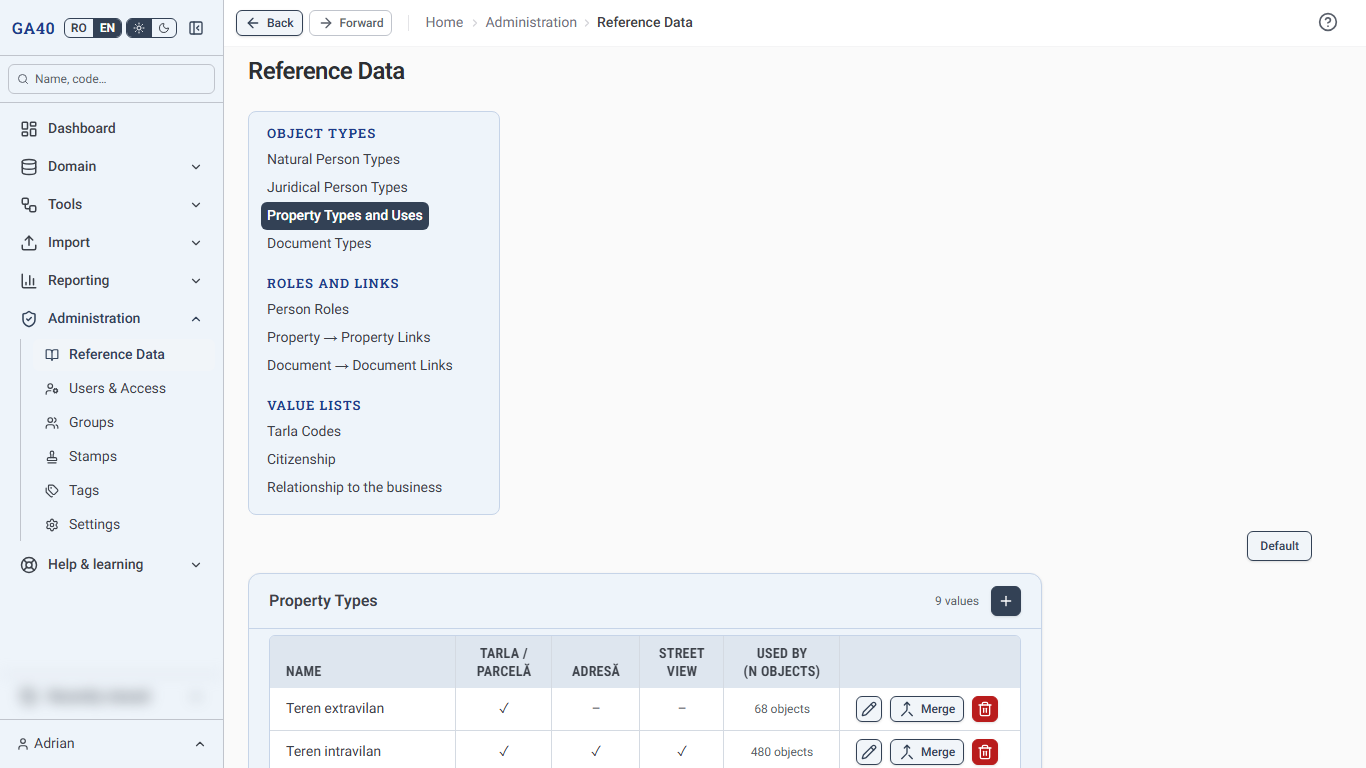
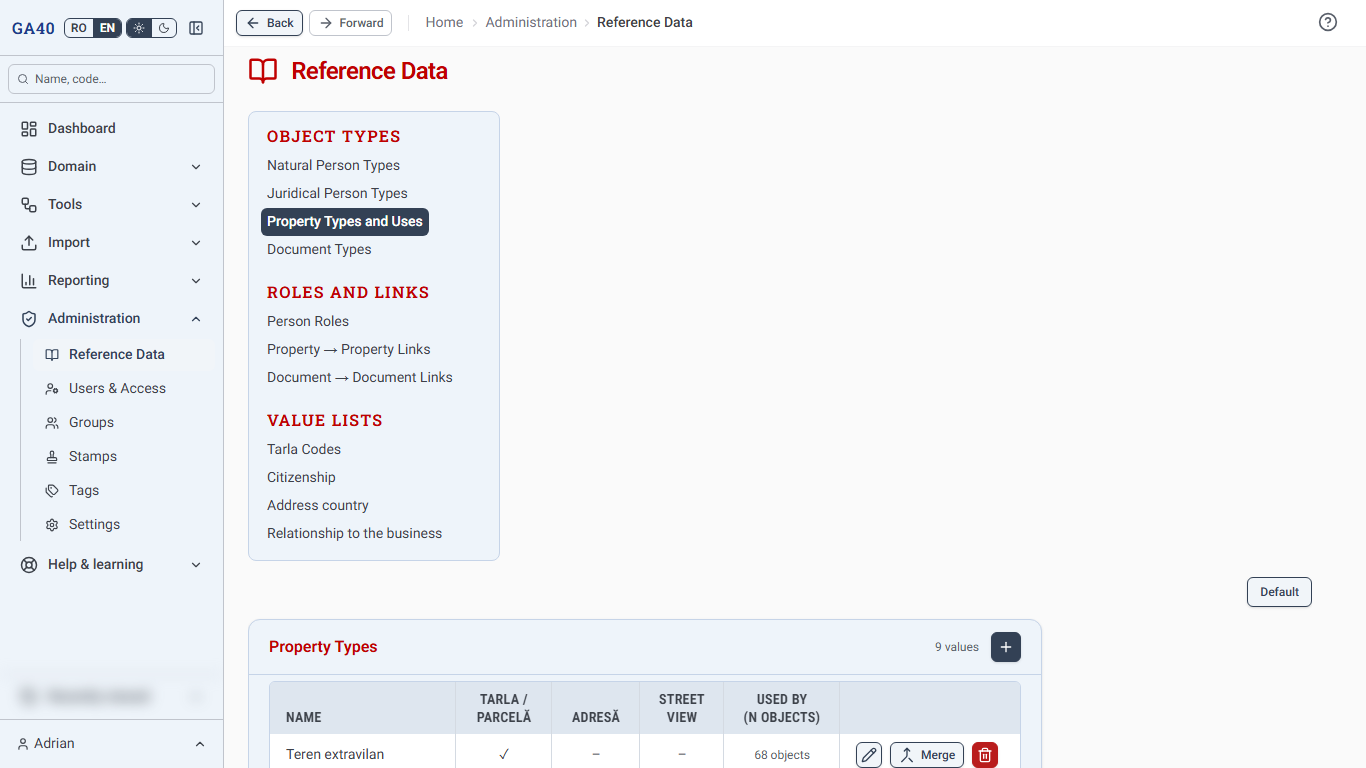
docs(manual): chapters 7 and 12 after 41.13–41.85, with their figures re-shot (41.93)
Both languages:
- chapter 7: the „Notar" link made from „Notariat", which „Dezasociază" refuses
  (41.53); Clasificare's „i" and the title bubbles (41.28, 41.37); Clasificare
  reviewed as one block — one date line, one „Marchează ca verificat", a
  confirmation, „Istoric" for provenance only (41.28, 41.59); „Etichete și grupuri"
  calm at rest, opened with „Editează", pickers closing on an outside click or Esc
  (41.39, 41.40); a group's or stamp's screen opened from a record shows only its
  identity tile (41.43, 41.45); „Actul modificat" the one link that makes a
  version (41.54);
- chapter 12: „Țara adresei" and how it keeps step with „Cetățenie" (41.51);
  „Forme tipărite" (41.52); the identity types under „Cu formular" (41.50);
  Grupuri, Ștampile, Etichete choosing their tiles with „Panouri", the workflows
  tile, „Am înțeles" and „Ce vrei să faci?", a group's three tiles and its
  searchable lists (41.41–41.45, 41.58, 41.67, 41.84); „Unitatea de lățime" on
  „Setări" (41.16); fifteen thresholds in six groups, „Hărți" the sixth (41.75,
  41.76 — it said eleven in five).
Quizzes corrected in place: links-audit-the-history a5, b9 and
links-classify-and-tag a2 („Istoric" holds provenance only); classify a5, a6, b6,
groups a1, a4, b2, b3, b4, b6, read-version b6, restore a6 („Confirmă",
„Editează" first, „‹ Include", „Implicit" in „Panouri").
Figures re-shot from the dev seed, both languages, 0 maps: admin-settings,
[…]

diff --git a/src/lib/manual/content/ro-RO/12-admin.ts b/src/lib/manual/content/ro-RO/12-admin.ts
@@ -15,7 +15,7 @@ Ecranul este o singură pagină (Figura [[fig-admin-value-lists]]). În stânga 
 
 O pagină cu mai multe liste le arată ca fișe: stau una lângă alta cât încap, fiecare cât îi cer coloanele, și se pot trage în alt loc, ca pe ecranul unei proprietăți. „Implicit”, din dreapta sus, le pune la loc; locul lor se păstrează în browserul vostru.
 
-Fiecare listă stă la aceeași distanță de marginile fișei ei — stânga, dreapta și jos —, cea a „Categorii Folosință”. Unde fișa e mai lată decât îi cer coloanele, lista se lărgește până acolo, iar lățimea câștigată o primește descrierea sau, unde lista nu are descriere, denumirea; la „Cetățenie” și „Relația cu firma” fișa se îngustează în jurul listei. „Roluri Persoane” și cele două „Legături” își păstrează fișele.
+Fiecare listă stă la aceeași distanță de marginile fișei ei — stânga, dreapta și jos —, cea a „Categorii Folosință”. Unde fișa e mai lată decât îi cer coloanele, lista se lărgește până acolo, iar lățimea câștigată o primește descrierea sau, unde lista nu are descriere, denumirea; la „Cetățenie”, „Țara adresei” și „Relația cu firma” fișa se îngustează în jurul listei. „Roluri Persoane” și cele două „Legături” își păstrează fișele.
 
 ![12.1 „Date de referință”](admin-value-lists.png){#fig-admin-value-lists}
 
@@ -23,7 +23,7 @@ Fiecare listă stă la aceeași distanță de marginile fișei ei — stânga, d
 |---|---|
 | Tipuri de obiecte | „Tipuri de Persoană Fizică”, „Tipuri de Persoană Juridică”, „Tipuri de Proprietate și Folosințe”, „Tipuri de Document” |
 | Roluri și legături | „Roluri Persoane”, „Legături Proprietate → Proprietate”, „Legături Document → Document” |
-| Liste de valori | „Indicative Tarla”, „Cetățenie”, „Relația cu firma” |
+| Liste de valori | „Indicative Tarla”, „Cetățenie”, „Țara adresei”, „Relația cu firma” |
 
 „Categorii Folosință” nu are un buton al ei: este a doua fișă a paginii „Tipuri de Proprietate și Folosințe” (secțiunea [[admin-reference-data-property-types]]).
 
@@ -41,6 +41,10 @@ Coloana „Folosit de” spune câte obiecte folosesc valoarea: „1 obiect”, 
 - **O valoare ștearsă.** „Șterge” întreabă „Ștergeți „…”?” și verifică întâi ce depinde de valoare: „Se verifică ce depinde de această valoare…”. Dacă nu depinde nimic, scrie „Nimic nu depinde de această valoare. La ștergere dispare definitiv — acțiunea nu poate fi anulată.”; „Șterge” o șterge, „Anulează” renunță. Dacă o folosesc obiecte, fereastra spune câte, iar ștergerea nu este posibilă până nu le mutați pe altă valoare: alegeți-o la „Mutați-le pe:” și apăsați „Mută”.
 
 Versiunile vechi ale obiectelor nu se schimbă: fiecare păstrează valoarea așa cum era când a fost salvată (secțiunea [[links-versions]]).
+
+„Cetățenie” și „Țara adresei” țin aceleași țări: prima, cetățenia unei persoane; a doua, lista „Țară” de pe fiecare adresă — a unei persoane, a unei firme, a unei proprietăți. O adresă păstrează numele țării, așa că o țară scoasă din listă rămâne pe adresele care o au. După o adăugare, o redenumire, o ștergere sau o unire în una dintre cele două, aplicația amintește de cealaltă, de exemplu „Ați salvat o schimbare în „Cetățenie”. Verificați dacă „Țara adresei” are nevoie de aceeași schimbare, ca listele să rămână în acord.”; mesajul rămâne până îl închideți.
+
+La „Cetățenie”, „Forme tipărite” ține, despărțite prin virgulă, felurile în care un act de identitate poate tipări cetățenia, de exemplu ROU sau ROUMAINE. Importul unei cărți de identitate le citește ca să găsească cetățenia persoanei (capitolul [[import]]).
 
 ### 12.1.2 Rolurile și legăturile {#admin-reference-data-roles}
 
@@ -69,7 +73,7 @@ Deasupra celor trei liste din „Roluri și legături” stă fișa „Cum se le
 
 „Tipuri de Document” are coloanele „Denumire”, „Denumire scurtă”, „Stare” și „Folosit de (n obiecte)”. „Stare” spune de unde vine tipul și dacă are formular: „Adăugat manual”, „Creat la import” sau „Are formular”; cele patru tipuri de act de identitate spun „Act de identitate”. Țineți mouse-ul pe denumirea unui tip și bula arată denumirea întreagă, iar sub ea cheia tipului, de exemplu „CONTRACT_VANZARE”.
 
-Deasupra tabelului stau două bife: „Cu formular” arată doar tipurile care au formular, „Fără formular” doar pe cele care nu au. Amândouă bifate, sau niciuna, arată toate tipurile. Când un import se oprește la un tip fără formular, legătura lui deschide lista cu „Fără formular” bifat (capitolul [[import]]).
+Deasupra tabelului stau două bife: „Cu formular” arată doar tipurile care au formular, „Fără formular” doar pe cele care nu au. Cele patru tipuri de act de identitate stau sub „Cu formular”: formularul lor este cel de sistem (mai jos). Amândouă bifate, sau niciuna, arată toate tipurile. Când un import se oprește la un tip fără formular, legătura lui deschide lista cu „Fără formular” bifat (capitolul [[import]]).
 
 „Deschide”, pe rândul unui tip, deschide pagina tipului, cu trei file:
 
@@ -116,33 +120,39 @@ Grupurile, ștampilele și etichetele se pun pe obiecte din fișa „Etichete ș
 
 ### 12.3.1 Grupurile {#admin-groups-groups}
 
-„Administrare” → „Grupuri” arată panoul „Ce este un Grup?”, „Adaugă”, caseta de căutare, numărul grupurilor, de exemplu „4 grupuri”, și tabelul „Cod” · „Descriere”. Fiecare rând are codul grupului, cu numărul membrilor în paranteză, felul obiectelor pe care le strânge, descrierea, „Editează” și „Șterge”. Lista se oprește la două treimi din înălțimea ferestrei și se derulează în fișa ei, cu rândul de titluri mereu sus.
+„Administrare” → „Grupuri” are trei fișe: „Ce este un Grup?”, „Cum lucrezi cu grupurile” și „Grupuri”, lista. Ca pe ecranul unui obiect, „Panouri”, în bara de sus, alege care se văd, iar „Implicit”, acolo, le aduce înapoi și le pune la locul lor (secțiunea [[start-tiles]]); alegerea rămâne a browserului. „Am înțeles”, la piciorul fișei „Ce este un Grup?”, o ascunde; o aduceți înapoi bifând-o în „Panouri”.
+
+„Cum lucrezi cu grupurile” întreabă „Ce vrei să faci?” și oferă șase variante, sub „Grupul însuși”, „Membrii grupului” și „Pe hartă” — de exemplu „Fac un grup nou” sau „Adaug sau scot membri” —, fiecare cu un rând care spune când se potrivește. Până nu alegeți una, fișa nu arată niciun pas; apoi arată doar pașii variantei alese și o ține minte, în browser.
+
+Fișa „Grupuri” are „Adaugă”, caseta de căutare, numărul grupurilor, de exemplu „4 grupuri”, și tabelul „Cod” · „Descriere”. Fiecare rând are codul grupului, cu numărul membrilor în paranteză, felul obiectelor pe care le strânge, descrierea, „Editează” și „Șterge”. Lista se oprește la două treimi din înălțimea ferestrei și se derulează în fișa ei, cu rândul de titluri mereu sus.
 
 Caseta de lângă „Adaugă”, „caută după Cod sau Descriere”, găsește un grup după cod sau după cuvintele descrierii — toate cuvintele scrise, în orice ordine, cu sau fără diacritice; un cod scris întreg vine primul. Cât timp scrieți, numărul spune câte grupuri se văd din câte sunt, de exemplu „1 din 4”; dacă nu se potrivește niciunul, tabelul spune „Niciun grup nu se potrivește căutării.”.
 
 1. „Adaugă” deschide „Adaugă grup nou”. Alegeți „Țintă” — „Proprietate”, „Persoană fizică”, „Persoană juridică” sau „Document” —, scrieți „Descriere” și apăsați „Salvează”. Rămâneți pe listă, cu grupul nou primul; codul, de forma GRP-001, se dă la salvare.
-2. „Editează” deschide „Grup GRP-…”, cu două fișe: „Identitatea grupului” (codul și ținta pe un rând, „Descriere”, „Salvează grupul”) și „Membrii grupului”, cu două liste: „Deja în grup” în stânga, „Membri disponibili pentru includere” în dreapta.
-3. Căutați în „Caută…”, bifați obiectele din dreapta și apăsați „‹ Include”; ca să scoateți unul, bifați-l în „Deja în grup” și apăsați „Scoate ›”. Un dublu clic pe un rând îl mută în cealaltă listă. Rândurile mutate poartă „în așteptare”, iar ecranul arată „Modificări nesalvate”: încă nu s-a scris nimic.
+2. „Editează” deschide „Grup GRP-…”, cu trei fișe: „Identitatea grupului” — codul și ținta pe un rând, „Descriere”, care crește odată cu textul, și „Salvează grupul” la piciorul ei —, „Membrii grupului”, cu două liste de aceeași înălțime, „Deja în grup” în stânga și „Membri disponibili pentru includere” în dreapta, și „Cum lucrezi cu grupurile”.
+3. Deasupra fiecărei liste stă o casetă „Caută…”, care o strânge la numele potrivite; numărul de lângă titlul listei spune câte rânduri se văd. Bifați obiectele din dreapta și apăsați „‹ Include”; ca să scoateți unul, bifați-l în „Deja în grup” și apăsați „Scoate ›”. Numărul din paranteza butonului spune câte rânduri bifate mută; fără nicio bifă, butonul nu se poate apăsa. Un dublu clic sau Enter pe un rând îl mută în cealaltă listă. Rândurile mutate poartă „în așteptare”, iar ecranul arată „Modificări nesalvate”: încă nu s-a scris nimic.
 4. „Salvează grupul” scrie schimbările; fiecare membru primește poziția lui în grup, „[01]”, „[02]”.
 
-Fișele ecranului se pot muta trăgându-le de un loc gol, iar „Implicit”, sus în dreapta, le pune la loc. „Șterge” pe rândul unui grup întreabă „Ștergeți acest grup? Această acțiune nu poate fi anulată.”; obiectele din grup rămân în arhivă.
+Deschis de pe un obiect — cu un clic pe codul grupului, în „Etichete și grupuri” (secțiunea [[links-classify-groups]]) —, ecranul grupului arată doar „Identitatea grupului”, și numai pentru vizita aceea: „Panouri” mai bifează alte fișe, „Toate” le arată pe toate, iar „Implicit” revine la alegerea obișnuită.
+
+Fișele ecranelor se pot muta trăgându-le de un loc gol și lărgi sau îngusta trăgându-le de marginea dreaptă, ca pe ecranul unui obiect; „Implicit”, din „Panouri”, le pune la loc. „Șterge” pe rândul unui grup întreabă „Ștergeți acest grup? Această acțiune nu poate fi anulată.”; obiectele din grup rămân în arhivă.
 
 ### 12.3.2 Ștampilele {#admin-groups-stamps}
 
-„Administrare” → „Ștampile” arată panoul „Ce este o Ștampilă?”, caseta de căutare, numărul ștampilelor și tabelul „Ștampilă” · „Elemente”: fiecare rând are codul și descrierea ștampilei, nota ei, câte obiecte o poartă, „Aplică” și „Șterge”. Lista se oprește la două treimi din înălțimea ferestrei și se derulează în fișa ei, cu rândul de titluri mereu sus.
+„Administrare” → „Ștampile” are, ca „Grupuri”, trei fișe alese cu „Panouri”: „Ce este o Ștampilă?”, „Cum lucrezi cu ștampilele” — pașii, pe scurt: cum găsiți, faceți, aplicați și ștergeți o ștampilă — și „Ștampile”, lista. Lista are caseta de căutare, numărul ștampilelor și tabelul „Ștampilă” · „Elemente”: fiecare rând are codul și descrierea ștampilei, nota ei, câte obiecte o poartă, „Aplică” și „Șterge”. Lista se oprește la două treimi din înălțimea ferestrei și se derulează în fișa ei, cu rândul de titluri mereu sus.
 
 Caseta „caută după Cod sau Descriere scurtă” găsește o ștampilă după cod sau după cuvintele descrierii scurte, ca la grupuri: toate cuvintele, în orice ordine, cu sau fără diacritice, iar numărul spune câte se văd din câte sunt; dacă nu se potrivește niciuna, „Nicio ștampilă nu se potrivește căutării.”.
 
 1. Butonul cu „+”, „Creare ștampilă”, deschide formularul: „Descriere scurtă” (obligatorie, cel mult 200 de caractere) și „Note”. Codul, de forma STMP-AAA, se dă la salvare. „Salvează” vă lasă pe listă, cu ștampila nouă prima.
-2. „Aplică” deschide „Aplică ștampila: …”, cu patru fișe: „Descrierea ștampilei”, „Tip element”, „Elemente disponibile pentru ștampilare” și „Elemente deja ștampilate”.
-3. Alegeți în „Tip element” felul obiectelor; listele arată doar obiecte de felul acela. Bifați-le și apăsați „Aplică ștampila”, sau, în cealaltă listă, „Elimină ștampila”. Ecranul arată „Modificări nesalvate”.
+2. „Aplică” deschide „Aplică ștampila: …”, cu trei fișe: „Descrierea ștampilei” — codul și descrierea scurtă pe un rând, „Note” și „Salvează ștampilele” la piciorul ei —, „Elementele ștampilei”, cu două liste, „Elemente deja ștampilate” în stânga și „Elemente disponibile pentru ștampilare” în dreapta, fiecare cu caseta ei „Caută…”, și „Cum lucrezi cu ștampilele”.
+3. Alegeți sus, în „Tip element”, felul obiectelor; amândouă listele arată doar obiecte de felul acela. Bifați în dreapta și apăsați „‹ Aplică ștampila”, sau bifați în stânga și apăsați „Elimină ștampila ›”; un dublu clic sau Enter mută un singur rând. Rândurile mutate poartă „în așteptare”, lângă „Tip element” apare „Modificări în așteptare”, iar ecranul arată „Modificări nesalvate”. Un rând mutat înapoi anulează mutarea.
 4. „Salvează ștampilele”, butonul cu discheta, scrie schimbările. O ștampilă poate sta pe obiecte de feluri diferite: schimbați „Tip element” și continuați.
 
-Ca la grupuri, fișele se mută trăgându-le, iar „Implicit” le pune la loc. „Șterge” întreabă „Ștergeți această ștampilă și o eliminați de pe toate elementele?”: ștampila dispare și de pe obiecte, iar obiectele rămân.
+Ca la grupuri, fișele se mută și se lărgesc trăgându-le, iar „Implicit”, din „Panouri”, le pune la loc; deschis de pe un obiect, ecranul ștampilei arată doar „Descrierea ștampilei”. „Șterge” întreabă „Ștergeți această ștampilă și o eliminați de pe toate elementele?”: ștampila dispare și de pe obiecte, iar obiectele rămân.
 
 ### 12.3.3 Etichetele {#admin-groups-tags}
 
-„Administrare” → „Etichete” arată „Nor de etichete”: toate etichetele din arhivă, câte distincte sunt și, pe fiecare, de câte ori este folosită, de exemplu „×1”. Cele mai folosite sunt mai mari. Când nu încap în fereastră, se derulează doar etichetele; titlul și butoanele rămân sus.
+„Administrare” → „Etichete” are două fișe, alese cu „Panouri”: „Etichete”, cu o propoziție despre ecran, și „Nor de etichete”: toate etichetele din arhivă, câte distincte sunt și, pe fiecare, de câte ori este folosită, de exemplu „×1”. Cele mai folosite sunt mai mari. Când nu încap în fereastră, se derulează doar etichetele; titlul și butoanele rămân sus.
 
 Un dublu-clic pe o etichetă o alege, iar al doilea o lasă; eticheta aleasă apare apăsată.
 
@@ -181,13 +191,14 @@ Textele din spatele butonului „?” și sfaturile cu bec de pe ecrane (secțiu
 - **Parola.** Scrieți parola nouă în „Parola nouă” — cel puțin 8 caractere — și încă o dată în „Confirmă parola”, apoi apăsați „Schimbă parola”. Aplicația confirmă cu „Parola a fost schimbată!”. Dacă cele două nu se potrivesc, spune „Parolele nu coincid.”.
 - **Limba.** La „Limba” alegeți „Română” sau „English”.
 - **Aspect.** Sub „Limba”, la „Aspect”, căsuța „Noapte (Mod Întunecat)” trece toată aplicația pe fundal închis; e aceeași căsuță ca sub „GA40” în bara laterală, așa că una o arată bifată pe cealaltă (secțiunea [[start-sidebar]]).
+- **„Unitatea de lățime”.** Lățimea fiecărei fișe este un număr întreg de unități (secțiunea [[start-tiles]]). Scrieți la „Unitatea” câți pixeli are o unitate — un număr întreg între 80 și 200 — și apăsați „Salvează” sau Enter. Câmpurile își păstrează mărimea: cu o unitate mai mică o fișă ia mai multe unități, cu una mai mare mai puține, dar niciodată nu e mai îngustă decât ce conține. „Setări” se redesenează pe loc; celelalte ecrane iau unitatea nouă când sunt afișate din nou. Cât unitatea nu e cea obișnuită, „Revino la 119 px” o pune la loc. Unitatea este a browserului, nu a contului.
 - **„Implicitele mele”.** Pentru fiecare fel de obiect — „Persoană fizică”, „Persoană juridică”, „Proprietate”, „Act” — bifați fișele pe care vreți să le arate „Implicit” pe ecranul lui și apăsați „Salvează”; apare „Salvat.”. Setul este al contului, nu al browserului, așa că rămâne și după o reîncărcare, și în orice browser. „Revino la implicit” uită setul dumneavoastră și readuce setul obișnuit al aplicației: „Revenit la implicit.”. Cel puțin o fișă rămâne bifată.
 
 „Ieșire” stă jos în bara laterală.
 
 ### 12.5.2 „Praguri de timp” {#admin-settings-thresholds}
 
-„Praguri de timp” ține unsprezece numere, în cinci grupe: „Tablou de bord”, „Acte”, „Persoane”, „Insigna „Nou!”” și „Fișe”. Zece hotărăsc când ceva este „nou”, „curând” sau „vechi”; al unsprezecelea, „Timp de ținere peste altă fișă”, din „Fișe”, spune cât timp țineți o fișă trasă peste alta până când aceea îi face loc (secțiunea [[start-tiles]]). Fiecare prag are un nume, o propoziție, un număr cu unitatea lui și un exemplu. Exemplul se schimbă pe loc, după numărul pe care îl scrieți: la „Fereastră filtru expiră curând”, cu 30 scrie „Exemplu: Un act apare «expiră curând» cu 30 de zile înainte.”, iar cu 45, „… cu 45 de zile înainte.”.
+„Praguri de timp” ține cincisprezece numere, în șase grupe: „Tablou de bord”, „Acte”, „Persoane”, „Insigna „Nou!””, „Fișe” și „Hărți”. Zece hotărăsc când ceva este „nou”, „curând” sau „vechi”; al unsprezecelea, „Timp de ținere peste altă fișă”, din „Fișe”, spune cât timp țineți o fișă trasă peste alta până când aceea îi face loc (secțiunea [[start-tiles]]). Cele patru din „Hărți” spun cum se mișcă hărțile: cât durează cele două părți ale deschiderii cu „Hartă extinsă” (secțiunea [[properties-corners-expanded]]) și, la „Caută pe hartă”, cât durează zborul până la locul găsit și cât de sus urcă el (secțiunea [[map-search]]). Fiecare prag are un nume, o propoziție, un număr cu unitatea lui și un exemplu. Exemplul se schimbă pe loc, după numărul pe care îl scrieți: la „Fereastră filtru expiră curând”, cu 30 scrie „Exemplu: Un act apare «expiră curând» cu 30 de zile înainte.”, iar cu 45, „… cu 45 de zile înainte.”.
 
 Pragurile hotărăsc, printre altele:
 
@@ -195,9 +206,11 @@ Pragurile hotărăsc, printre altele:
 - cu cât timp înainte un act apare „expiră curând”;
 - cu cât timp înainte de expirare este semnalat un act de identitate — carte de identitate sau pașaport („Prag CI expiră curând”);
 - cât timp poartă un obiect schimbat insigna „Nou!”, roșie și apoi chihlimbar, și după cât timp insigna dispare;
-- cât timp țineți o fișă peste alta până când aceea alunecă în jos, ca să-i facă loc.
+- cât timp țineți o fișă peste alta până când aceea alunecă în jos, ca să-i facă loc;
+- cât durează, la „Hartă extinsă”, mărirea fișei „Hartă” și apoi depărtarea hărții;
+- cât durează zborul hărții mari la un loc găsit cu „Caută pe hartă” și coeficientul a al drumului lui: cu 0 harta alunecă drept, cu 1 urcă până se văd ambele locuri, cu 2 de două ori mai sus.
 
-Cum schimbați un număr, lângă „Salvează” apare „Anulează”, care readuce valoarea salvată. „Salvează” confirmă cu „Salvat cu succes.”. Valorile sunt numere întregi între 1 și 3650, afară de „Timp de ținere peste altă fișă”, care se scrie în secunde, cu virgulă sau punct și cel mult două zecimale, între 0,2 și 10: „1,5” înseamnă o secundă și jumătate. O valoare în afara acestora este refuzată la „Salvează”, cu un mesaj care spune de ce. Pragurile sunt ale arhivei, nu ale unui cont: o schimbare se vede la toți utilizatorii.
+Cum schimbați un număr, lângă „Salvează” apare „Anulează”, care readuce valoarea salvată. „Salvează” confirmă cu „Salvat cu succes.”. Valorile sunt numere întregi între 1 și 3650, afară de cele scrise în secunde, cu virgulă sau punct și cel mult două zecimale: „Timp de ținere peste altă fișă”, între 0,2 și 10 — „1,5” înseamnă o secundă și jumătate —, cele două ale lui „Hartă extinsă”, între 0 și 10, și zborul, între 0 și 15; la ele, 0 sare peste mișcare. Coeficientul a se scrie cu cel mult două zecimale, între 0 și 3. O valoare în afara acestora este refuzată la „Salvează”, cu un mesaj care spune de ce. Pragurile sunt ale arhivei, nu ale unui cont: o schimbare se vede la toți utilizatorii.
 
 ### 12.5.3 „Costuri” {#admin-settings-costs}
 

diff --git a/src/lib/manual/content/ro-RO/07-links.ts b/src/lib/manual/content/ro-RO/07-links.ts
@@ -46,10 +46,13 @@ Cota-parte a unei persoane pe un act se scrie după asociere, pe act (secțiunea
 - Între două persoane, rolul este al persoanei bifate față de persoana pe al cărei ecran sunteți; propoziția de lângă „Rol” o spune: „Rolul pe care persoana bifată îl are față de …”. Celălalt capăt arată rolul invers, potrivit genului persoanei: dacă pe ecranul unei fiice îl bifați pe tatăl ei ca „Părinte”, pe ecranul tatălui ea apare ca „Fiică”.
 - O persoană legată de o firmă ca „Reprezentant legal / Mandatar” vede firma, pe ecranul ei, cu rolul „Reprezentat(ă) / Mandant(ă)”.
 - Dacă tipul actului nu are niciun rol pregătit, ecranul spune asta în locul listei „Rol”, iar asocierea se face fără rol. Rolurile se pregătesc în „Date de referință” (secțiunea [[admin-reference-data]]).
+- Pe un act al cărui emitent se numește „Notariat”, biroul notarial ales acolo intră singur în „Legături”, ca persoană juridică cu rolul „Notar” (secțiunea [[documents-identification]]).
 
 ### 7.1.4 Dezasocierea {#links-associate-remove}
 
 Pe „Legături”, alegeți rândul cu butonul rotund din stânga lui, apoi apăsați „Dezasociază”. Legătura dispare din ambele capete, fără nicio întrebare; cele două obiecte rămân în arhivă, neatinse. Se alege un singur rând odată, de orice fel ar fi. „Dezasociază” se poate folosi doar cu un rând ales, iar cât timp un rând este ales, cele trei „Asociază …” nu se pot folosi.
+
+Biroul notarial venit din „Notariat” nu se dezasociază de aici: aplicația refuză și spune „Biroul notarial se schimbă din „Identificarea actului”.”.
 
 ## 7.2 Fișa „Legături” {#links-related}
 
@@ -101,7 +104,7 @@ Ca la acte, legătura se citește de la proprietatea pe care vă aflați. De pe 
 
 ## 7.4 Fișele „Clasificare” și „Etichete și grupuri” {#links-classify}
 
-Pe orice obiect stau două fișe care țin de felul în care lucrați cu el: „Clasificare” și „Etichete și grupuri”. Țineți mouse-ul pe titlul unui câmp ca să aflați la ce folosește, sau pe valoarea aleasă ca să aflați ce înseamnă.
+Pe orice obiect stau două fișe care țin de felul în care lucrați cu el: „Clasificare” și „Etichete și grupuri”. Pe „Clasificare”, un ⓘ, „Despre „Clasificare””, chiar după titlu, explică într-o bulă cele trei valori, „Istoric” și „Revizuire”; ținând mouse-ul pe o valoare aleasă aflați ce înseamnă. Pe „Etichete și grupuri”, țineți mouse-ul pe titlul „Etichete / Cuvinte cheie” sau „Vezi și” ca să aflați la ce folosește.
 
 ### 7.4.1 „Clasificare” {#links-classify-classification}
 
@@ -111,15 +114,19 @@ Pe orice obiect stau două fișe care țin de felul în care lucrați cu el: „
 | Relevanță | Inactiv, Istoric, Actual, De perspectivă | unde stă obiectul în timp; un act vechi poate fi istoric și totuși foarte important |
 | Proveniență | de exemplu „Manual (Adaugă nou)”, „Interpretare AI”, „Fișier de coordonate (.txt)” | cum a intrat obiectul în arhivă |
 
-„Clasificare” se citește ca o fișă de formular (secțiunea [[start-read-edit]]): cele trei valori stau una sub alta, fiecare cu numele deasupra, mic, bleumarin, și cu „Marchează ca verificat” — insigna cu bifa — alături; dedesubt scrie când s-a schimbat ultima oară. „Marchează ca verificat” notează că valoarea e încă bună, fără s-o schimbe.
+„Clasificare” se citește ca o fișă de formular (secțiunea [[start-read-edit]]): cele trei valori stau una sub alta, fiecare cu numele deasupra, mic, bleumarin.
 
-„Editează” — creionul —, în colțul fișei, deschide cele trei liste, una sub alta, cât fișa de late, iar fișa capătă conturul albastru. „Salvează”, sub ele, le scrie pe toate trei deodată și adaugă o versiune a obiectului (secțiunea [[links-versions]]); nu se poate apăsa până nu schimbați o valoare. „Renunță” sau Esc le pune la loc, fără să scrie nimic. O alegere dintr-o listă nu se salvează singură. Fără nicio valoare, fișa stă pe un singur rând — „Clasificare”, „necompletat” și „Adaugă”, care deschide listele. Pe o versiune veche fișa doar se citește.
+Cele trei se verifică împreună, ca un singur bloc. Sub ele, un singur rând spune când a fost schimbată sau verificată ultima oară cea mai veche dintre ele — de exemplu „(actualizat acum 12 zile)” — și are la capăt „Marchează ca verificat”, insigna cu bifa, care notează că toate trei sunt încă bune, fără să le schimbe. O valoare schimbată azi contează ca verificată: când toate trei sunt de azi, insigna e plină, se numește „Verificat azi” și nu se poate apăsa. Când blocul a stat neschimbat și neverificat mai mult decât spune pragul lui din „Setări” (secțiunea [[admin-settings-thresholds]]), sub rând apare, cu roșu, de exemplu „Neverificat de 120 zile — vă rugăm să revedeți”, iar „Clasificări de revizuit”, pe tabloul de bord, numără obiectul (secțiunea [[intro-purpose]]).
 
-Sub „Proveniență”, „Istoric” ține fiecare schimbare, cu data ei.
+„Marchează ca verificat” nu scrie nimic dintr-odată: deschide întâi o casetă, „Confirmați că toate trei sunt încă valabile azi:”, cu cele trei valori. „Confirmă” le marchează pe toate trei, iar „Înapoi” sau Esc lasă totul cum era.
+
+„Editează” — creionul —, în colțul fișei, deschide cele trei liste, una sub alta, cât fișa de late, iar fișa capătă conturul albastru. „Salvează”, sub ele, deschide aceeași casetă, cu valorile schimbate marcate „modificat” și cu „Salvarea le confirmă pe toate trei ca verificate azi.”. „Confirmă” le scrie pe toate trei deodată, le socotește verificate azi și adaugă o versiune a obiectului (secțiunea [[links-versions]]); „Înapoi” vă lasă în editare, cu ce ați ales. „Salvează” nu se poate apăsa până nu schimbați o valoare. „Renunță” sau Esc le pune la loc, fără să scrie nimic. O alegere dintr-o listă nu se salvează singură. Fără nicio valoare, fișa stă pe un singur rând — „Clasificare”, „necompletat” și „Adaugă”, care deschide listele. Pe o versiune veche fișa doar se citește.
+
+Sub rândul verificării, „Istoric” ține fiecare schimbare de proveniență, cu data ei.
 
 ### 7.4.2 Etichetele {#links-classify-tags}
 
-Etichetele sunt cuvinte libere după care regăsiți obiectele — „arendă”, „litigiu”, „moștenire”. În „Etichete și grupuri”, la „Etichete / Cuvinte cheie”, scrieți eticheta în „Introduceți o etichetă…” și apăsați „Adaugă” sau Enter. Eticheta se salvează pe loc, fără „Salvează”, și se scrie cu litere mici. Ca s-o scoateți, țineți mouse-ul pe ea și apăsați „×”-ul care apare în colțul ei.
+Etichetele sunt cuvinte libere după care regăsiți obiectele — „arendă”, „litigiu”, „moștenire”. Cât stă, „Etichete și grupuri” arată doar etichetele, grupurile, ștampilele și trimiterile din „Vezi și”, fără niciun buton de adăugat sau de scos. „Editează” — creionul —, în colțul fișei, le aduce pe toate (secțiunea [[start-read-edit]]). La „Etichete / Cuvinte cheie”, scrieți eticheta în „Introduceți o etichetă…” și apăsați „Adaugă” sau Enter. Eticheta se salvează pe loc, fără „Salvează”, și se scrie cu litere mici. Ca s-o scoateți, țineți mouse-ul pe ea și apăsați „×”-ul care apare în colțul ei. Fiecare adăugare și fiecare scoatere se salvează pe loc, așa că sub fișă stă un singur buton, „Gata”, care o aduce înapoi la citit, ca și Esc.
 
 Toate obiectele cu o etichetă le găsiți în „Căutare globală”: scrieți eticheta în „Etichetă” și apăsați „Caută” (secțiunea [[reports-search]]).
 
@@ -134,19 +141,21 @@ O etichetă scoasă de pe ultimul obiect care o purta dispare din nor.
 
 Un grup strânge, pentru o treabă de scurtă durată, obiecte de un singur fel — de exemplu terenurile pentru o evaluare. Grupul se face în „Administrare” → „Grupuri” (secțiunea [[admin-groups]]): „Adaugă”, alegeți „Țintă” și scrieți „Descriere”, apoi „Salvează”; codul, de forma GRP-001, se dă singur. „Editează” pe rândul grupului deschide ecranul lui: bifați obiecte în „Membri disponibili pentru includere”, apăsați „‹ Include” și apoi „Salvează grupul”. Până la „Salvează grupul” nu se scrie nimic, iar ecranul arată „Modificări nesalvate”.
 
-Pe un obiect, „Grupuri” din „Etichete și grupuri” arată grupurile lui. „+ Adaugă în grup” deschide lista grupurilor; „×” pe un grup îl scoate din grup. Lângă codul grupului, numărul din paranteze este câți membri are grupul acum — de exemplu „GRP-001 [2]”, cu „2 membri” când țineți mouse-ul pe el.
+Pe un obiect, „Grupuri” din „Etichete și grupuri” arată grupurile lui. După „Editează”, „+ Adaugă în grup” deschide lista grupurilor, fiecare cu codul și începutul descrierii; un clic în afara ei sau Esc o închide. „×” pe un grup îl scoate din grup. Lângă codul grupului, numărul din paranteze este câți membri are grupul acum — de exemplu „GRP-001 [2]”, cu „2 membri” când țineți mouse-ul pe el. Un clic pe cod deschide ecranul grupului doar cu „Identitatea grupului” (secțiunea [[admin-groups-groups]]).
 
 Un obiect poate face parte din cel mult trei grupuri. La al treilea, „+” nu se mai poate apăsa și sub listă scrie: „Un obiect poate face parte din cel mult 3 grupuri. Scoateți-l dintr-un grup pentru a-l adăuga în altul.” Membrii unui grup îi găsiți în „Căutare globală”, după „Cod grup”. Un grup șters nu ia cu el obiectele.
 
 ### 7.4.4 Ștampilele {#links-classify-stamps}
 
-O ștampilă marchează o însușire de durată, pe obiecte de orice fel. Se face în „Administrare” → „Ștampile”, cu „Creare ștampilă”: „Descriere scurtă” și „Note”, iar codul se dă la salvare. „Aplică”, pe rândul ștampilei, deschide ecranul ei: alegeți felul obiectelor în „Tip element”, bifați-le în „Elemente disponibile pentru ștampilare”, apăsați „Aplică ștampila” și apoi „Salvează ștampilele”. Lista ștampilelor arată la fiecare câte obiecte o poartă.
+O ștampilă marchează o însușire de durată, pe obiecte de orice fel. Se face în „Administrare” → „Ștampile”, cu „Creare ștampilă”: „Descriere scurtă” și „Note”, iar codul se dă la salvare. „Aplică”, pe rândul ștampilei, deschide ecranul ei (secțiunea [[admin-groups-stamps]]): în „Elementele ștampilei”, alegeți felul obiectelor în „Tip element”, bifați-le în „Elemente disponibile pentru ștampilare”, apăsați „‹ Aplică ștampila” și apoi „Salvează ștampilele”. Lista ștampilelor arată la fiecare câte obiecte o poartă.
 
-Pe obiect, ștampila apare în „Etichete și grupuri”, la „Ștampile”, unde „+ Aplică ștampilă” pune alta și „×” o scoate. O ștampilă ștearsă dispare de pe toate obiectele.
+Pe obiect, ștampila apare în „Etichete și grupuri”, la „Ștampile”. După „Editează”, „+ Aplică ștampilă” pune alta — lista se închide și ea cu un clic în afara ei sau cu Esc — și „×” o scoate. Un clic pe ștampilă deschide ecranul ei doar cu „Descrierea ștampilei”. O ștampilă ștearsă dispare de pe toate obiectele.
 
 ## 7.5 Versiunile și „Fă curentă” {#links-versions}
 
 Fiecare salvare a unui obiect păstrează o versiune nouă și o lasă neatinsă pe cea dinainte (secțiunea [[intro-versions]]). Versiunile se numără de la 0: un obiect abia creat arată „v 0” în bara de sus, la stânga lui „Panouri” (secțiunea [[start-breadcrumb]]). „Salvează” nu se poate apăsa până nu schimbați ceva, așa că o versiune nouă apare doar când s-a schimbat ceva. După salvare rămâneți pe obiect.
+
+Legăturile din „Legături” nu fac versiuni, cu o excepție: legarea sau dezlegarea „Actul modificat” al unui act adițional face o versiune nouă a actului adițional (secțiunea [[documents-dependent-addendum]]).
 
 Când are mai multe versiuni, în același loc stă „N versiuni”, de exemplu „2 versiuni”. Apăsat, vă duce cu o versiune înapoi și arată „Versiunea anterioară”, „Versiunea următoare” și „Fă curentă” (Figura [[fig-links-versions]]). Pe o versiune veche:
 
@@ -193,7 +202,7 @@ Un contract de vânzare-cumpărare citează certificatul de moștenitor din care
 ### 7.7.3 Strângeți câteva terenuri pentru o evaluare {#links-example-group}
 
 1. În „Administrare” → „Grupuri”, faceți un grup cu „Țintă” „Proprietate” și o descriere, de exemplu „Evaluare primăvară” (secțiunea [[links-classify-groups]]).
-2. Pe ecranul grupului, bifați terenurile, apăsați „‹ Include”, apoi „Salvează grupul”.
+2. Pe ecranul grupului, în „Membrii grupului”, bifați terenurile în „Membri disponibili pentru includere”, apăsați „‹ Include”, apoi „Salvează grupul”.
 3. În „Căutare globală”, scrieți codul grupului în „Cod grup” și apăsați „Caută”: apar toate terenurile grupului (secțiunea [[reports-search]]).
 4. Când evaluarea s-a încheiat, ștergeți grupul; terenurile rămân în arhivă.
 
